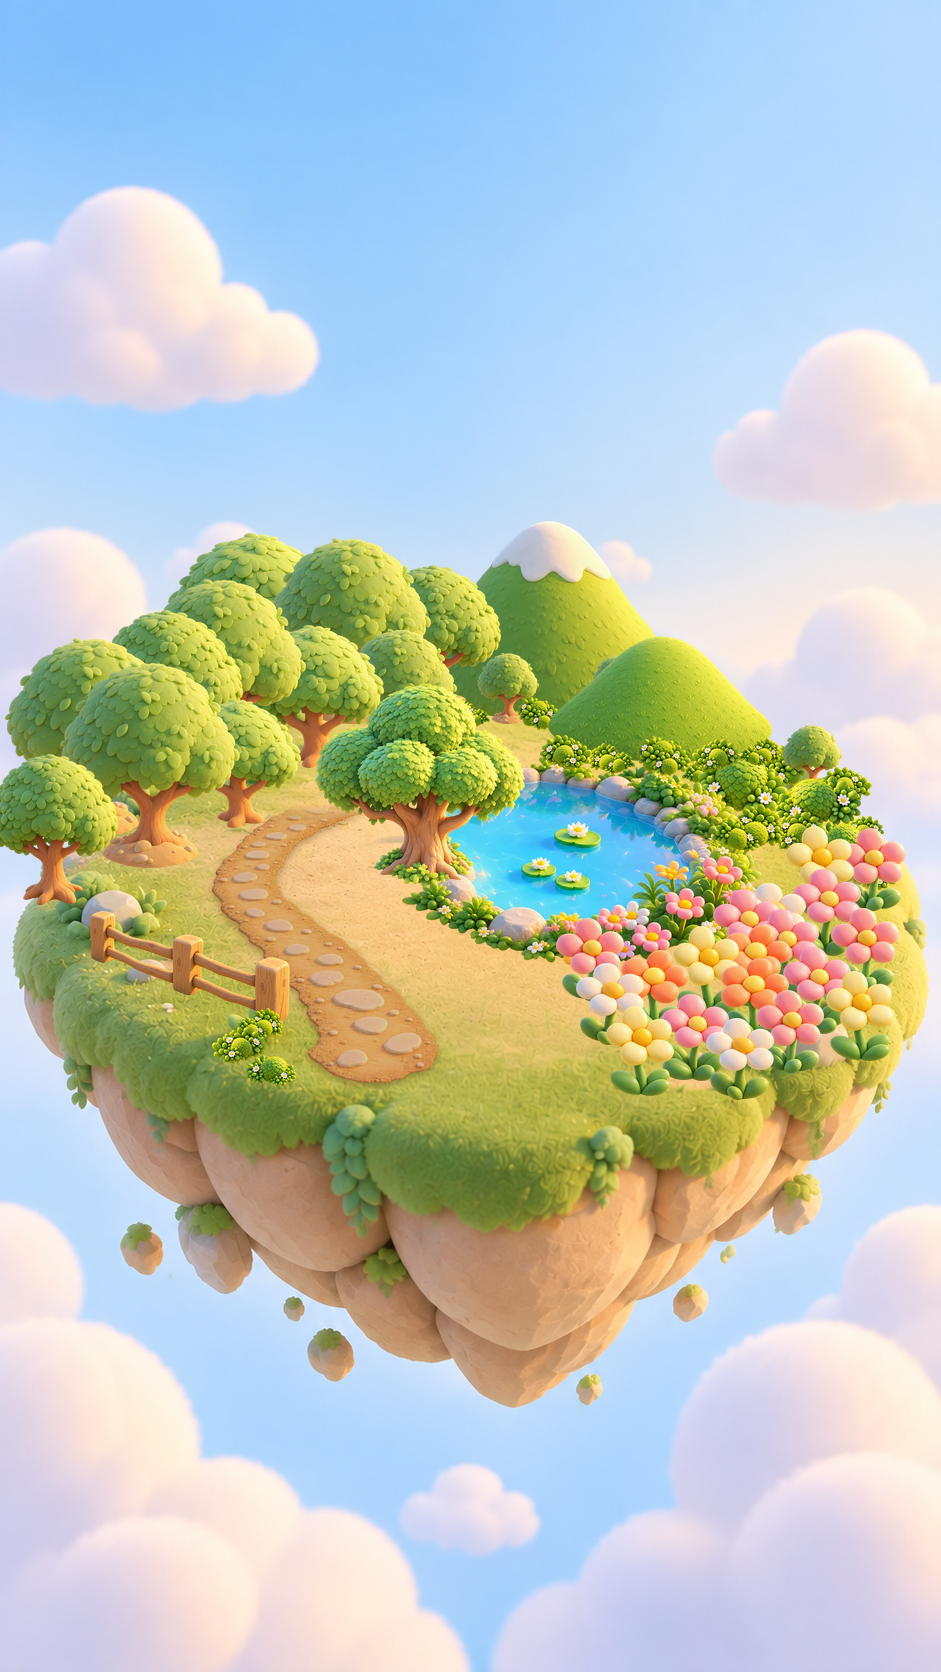
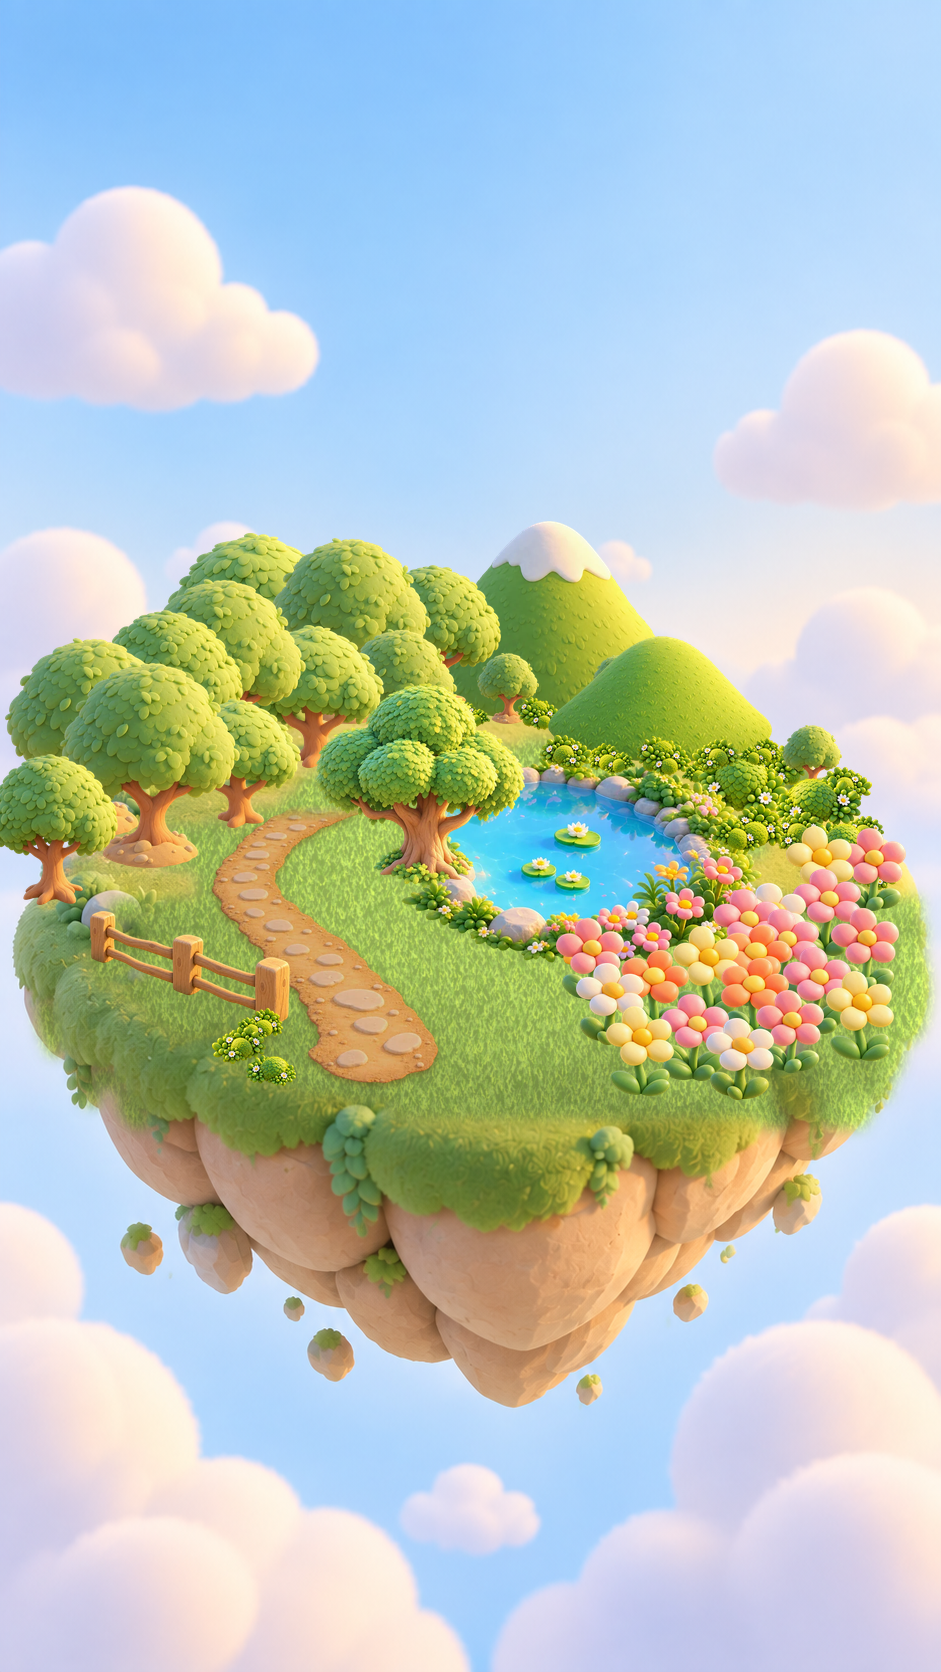
Add new Mochi assets and enhance translations
- Introduced a new Python script for transforming the center of the Mochi world image into a grass texture.
- Added a new image asset (mochi-world-green.png) and its corresponding WEBP format for improved performance.
- Updated the manifest file to include the new image asset and its bundled format.
- Enhanced translations in multiple languages to include a new splash tagline for better user engagement.

diff --git a/lib/presentation/mochi_world/model/mochi_world_layout.dart b/lib/presentation/mochi_world/model/mochi_world_layout.dart
@@ -1229,6 +1229,9 @@ List<MochiPlacement> mochiCompose(
 /// Adanın taban görseli: sağlıklıda yeşil, solarken kuru çim, kuraklıkta
 /// (boş adada) çatlak toprak.
 String mochiBaseAsset(int level, MochiHealth health) => switch (health) {
+  // 3. seviyeden itibaren adanın ortası kumdan çimene döner
+  // (asset_sources/mochi/grassify_base.py ile üretildi).
+  MochiHealth.thriving when level >= 3 => 'assets/images/mochi-world-green.png',
   MochiHealth.thriving => 'assets/images/mochi-worlds.png',
   MochiHealth.wilting when level == 0 => 'assets/images/mochi-world-6.png',
   MochiHealth.drought when level == 0 => 'assets/images/mochi-world-7.png',

diff --git a/lib/presentation/auth/splash/view/widgets/splash_logo.dart b/lib/presentation/auth/splash/view/widgets/splash_logo.dart
@@ -45,7 +45,7 @@ final class SplashLogo extends StatelessWidget {
         ),
         const SizedBox(height: 6),
         Text(
-          'fast together',
+          'auth.splash_tagline'.tr(),
           style: TextStyle(
             fontFamily: FontFamily.sFProDisplay,
             fontWeight: FontWeight.w500,

diff --git a/lib/presentation/auth/splash/view/splash_view.dart b/lib/presentation/auth/splash/view/splash_view.dart
@@ -1,3 +1,4 @@
+import 'package:easy_localization/easy_localization.dart';
 import 'package:fastingapp/generated/app_images.g.dart';
 import 'package:fastingapp/generated/colors.gen.dart';
 import 'package:fastingapp/generated/fonts.gen.dart';

diff --git a/asset_sources/mochi/grassify_base.py b/asset_sources/mochi/grassify_base.py
@@ -1,0 +1,58 @@
+"""Ada görselinin kum ortasını gerçek ot dokulu çimene çevirir.
+Kullanım: python3 asset_sources/mochi/grassify_base.py asset_sources/images/mochi-world-green.png 4
+"""
+import sys, math, random
+import numpy as np
+from PIL import Image, ImageFilter, ImageDraw
+out_p=sys.argv[1]; step=float(sys.argv[2]) if len(sys.argv)>2 else 4.0
+SRC='/Users/flywork/Projects/fastingapp/asset_sources/images/mochi-worlds.png'
+random.seed(11)
+im=Image.open(SRC).convert('RGB'); a=np.array(im).astype(float); H,W=a.shape[:2]
+hsv=np.array(im.convert('HSV')).astype(float); h,s,v=hsv[...,0],hsv[...,1],hsv[...,2]
+yy=np.arange(H)[:,None]
+sand=(h>12)&(h<33)&(s>55)&(s<200)&(v>150)&(yy>690)&(yy<1125)
+# Kıyıya yakın sarımsı geçiş bandı da (ön taraf) çimene dahil.
+sand|=(h>=33)&(h<47)&(s>110)&(v>150)&(yy>900)&(yy<1115)
+mI=Image.fromarray((sand*255).astype('uint8')).filter(ImageFilter.MinFilter(7)).filter(ImageFilter.MaxFilter(15))
+m=np.array(mI.filter(ImageFilter.GaussianBlur(6))).astype(float)/255
+lum=np.array(im.convert('L').filter(ImageFilter.GaussianBlur(10))).astype(float)
+ls=np.median(lum[sand]); shade=(lum/ls).clip(0.6,1.25)
+
+BASE=np.array([176,208,102.])
+S=2
+# zemin: bir tık koyu alt ton (otların arası)
+ground=(BASE*0.80)[None,None,:]*np.ones((H,W,1))
+canvas=Image.fromarray(ground.clip(0,255).astype('uint8')).resize((W*S,H*S))
+d=ImageDraw.Draw(canvas)
+ys,xs=np.where(np.array(mI)>0)
+y0,y1,x0,x1=ys.min()-6,ys.max()+6,xs.min()-6,xs.max()+6
+pal=[(0.78,0.82,0.70),(0.90,0.94,0.85),(1.0,1.0,1.0),(1.08,1.06,1.0),(1.16,1.12,0.92)]
+def blade(x,y,L,w,col,tilt):
+    cx=x+math.sin(tilt)*L*0.6+random.uniform(-1.5,1.5); cy=y-L*0.55
+    ex=x+math.sin(tilt)*L; ey=y-math.cos(tilt)*L
+    pts=[]
+    for t in np.linspace(0,1,7):
+        px=(1-t)**2*x+2*(1-t)*t*cx+t*t*ex; py=(1-t)**2*y+2*(1-t)*t*cy+t*t*ey
+        pts.append((px*S,py*S))
+    for i in range(len(pts)-1):
+        ww=max(1,int(w*S*(1-i/len(pts))*1.2))
+        d.line([pts[i],pts[i+1]],fill=col,width=ww)
+y=y0
+while y<y1:
+    x=x0+random.uniform(0,step)
+    while x<x1:
+        jx=x+random.uniform(-step*0.5,step*0.5); jy=y+random.uniform(-step*0.5,step*0.5)
+        if 0<=int(jy)<H and 0<=int(jx)<W and m[int(jy),int(jx)]>0.05:
+            n=random.choice((1,1,2,3))
+            for _ in range(n):
+                f=random.choice(pal); var=random.uniform(0.95,1.05)
+                col=tuple(int(min(255,BASE[i]*f[i]*var)) for i in range(3))
+                # perspektif: önde (aşağıda) otlar biraz daha uzun
+                persp=0.8+0.5*(jy-690)/430
+                blade(jx+random.uniform(-1.5,1.5),jy,random.uniform(4,8)*persp,random.uniform(1.0,1.8),col,random.uniform(-0.6,0.6))
+        x+=step
+    y+=step*0.8
+g=np.array(canvas.resize((W,H),Image.LANCZOS).filter(ImageFilter.GaussianBlur(0.6))).astype(float)
+g=g*shade[...,None]
+out=a*(1-m[...,None])+g.clip(0,255)*m[...,None]
+Image.fromarray(out.astype('uint8')).save(out_p)
